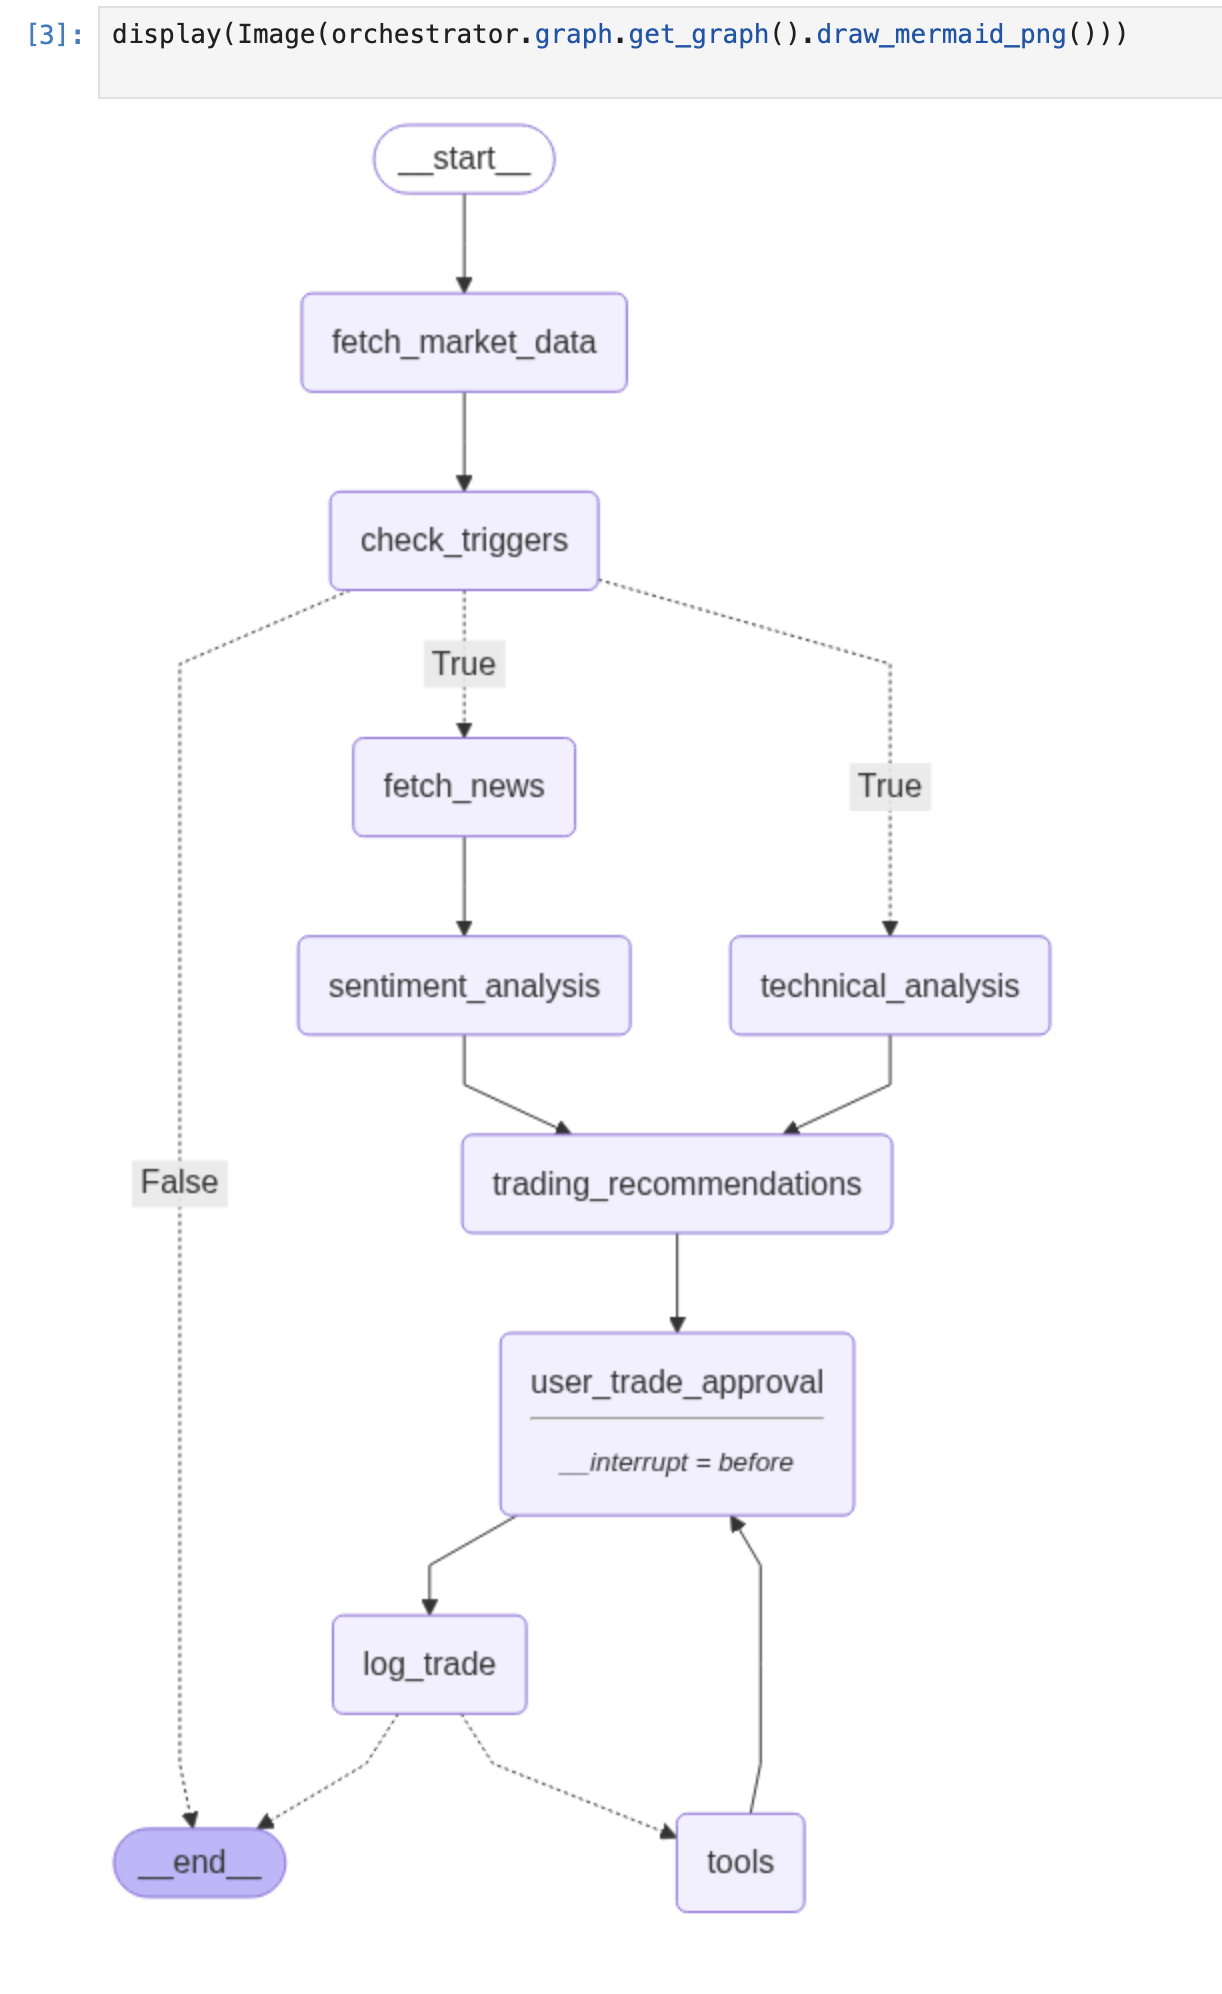
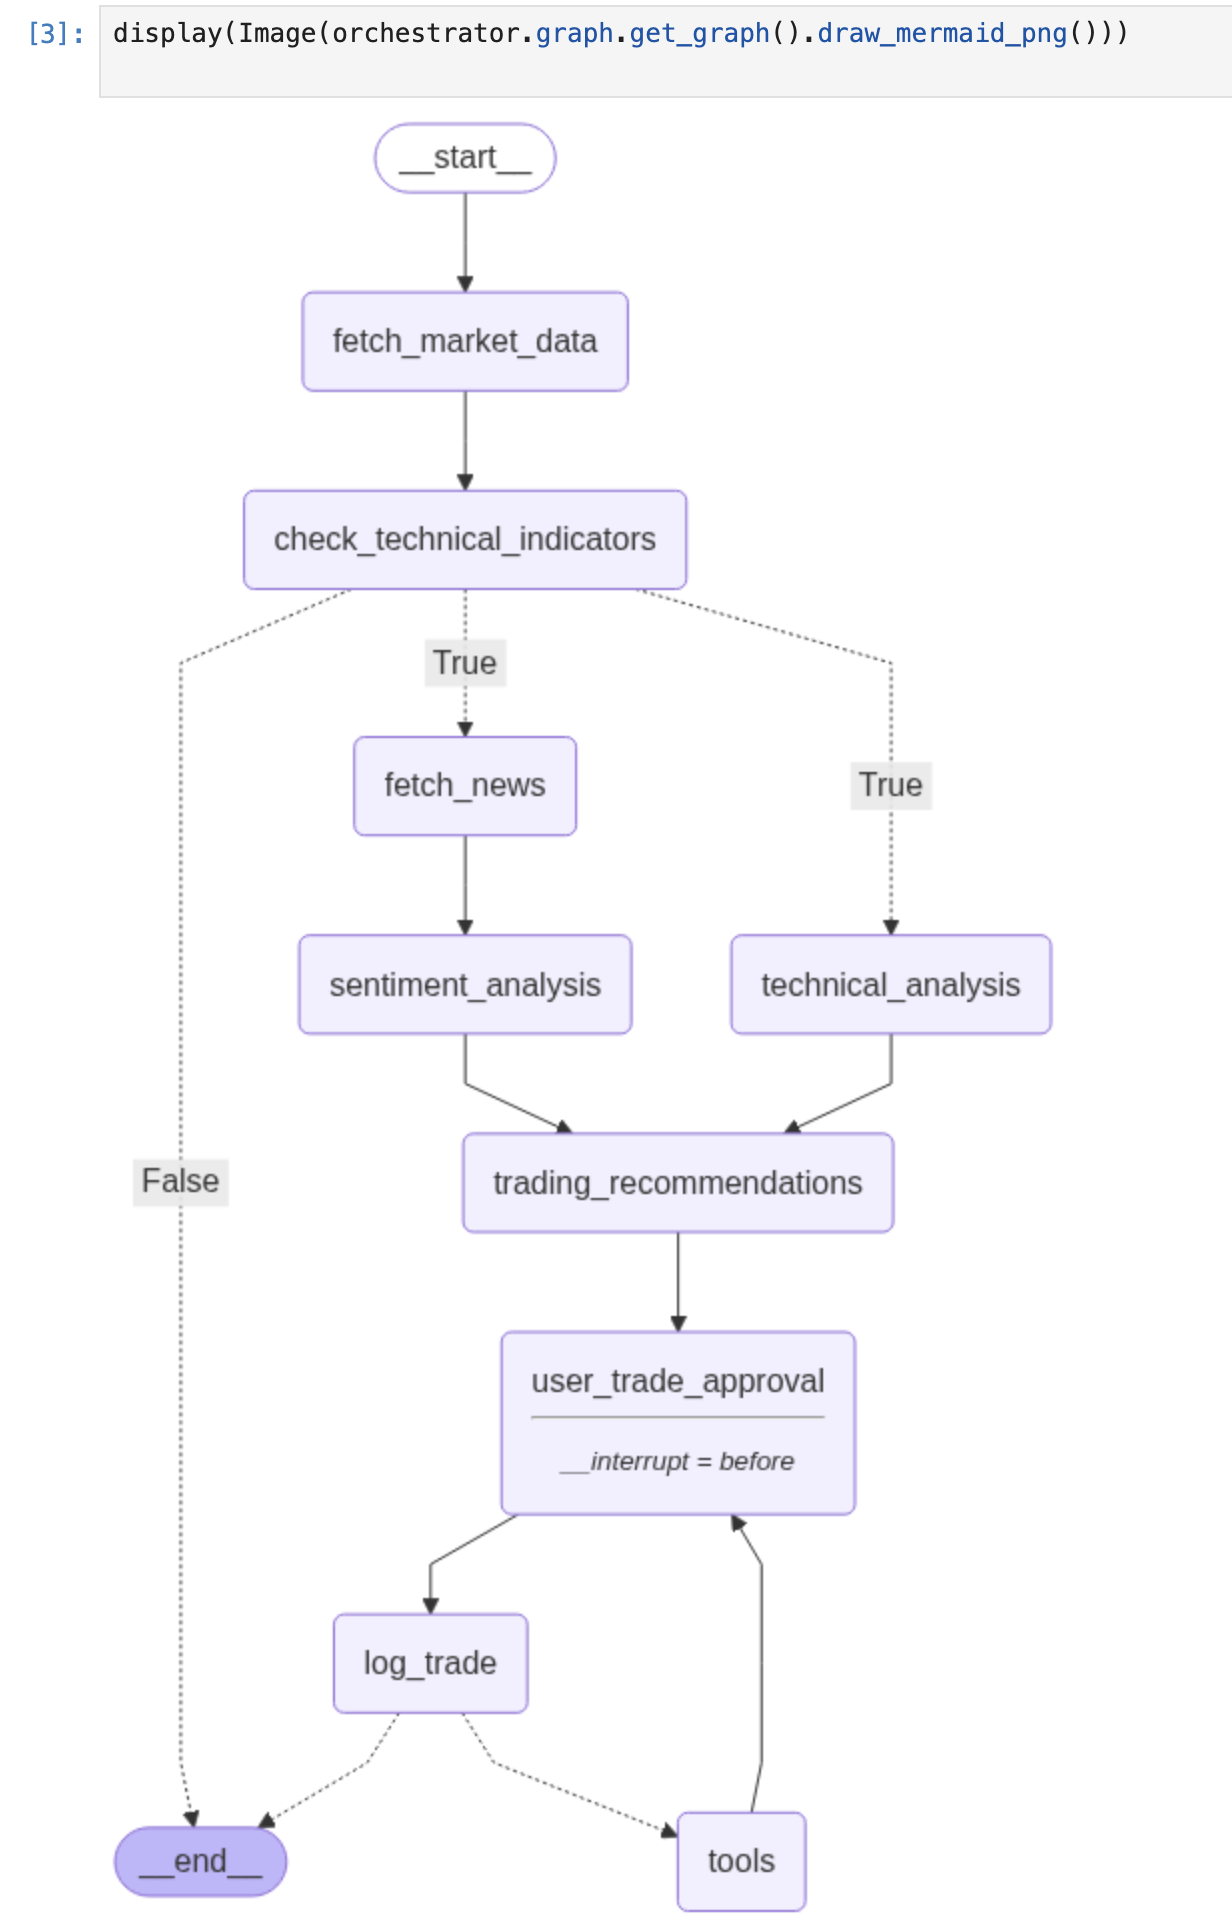
update demo screenshots

diff --git a/_posts/2025-07-14-Stock-Trading-AI-Agent.md b/_posts/2025-07-14-Stock-Trading-AI-Agent.md
@@ -35,11 +35,11 @@ Here is the responsible of each agents.
 * All actions and decisions are logged by the Logging Agent.
 
 The word “agent” here is a general term. It can be an LLM or an entity that completes specific tasks. For example:
-* The “Technical Analysis Agent” is an LLM. It computes the stock’s various technical indicators and uses reasoning to give the stock a technical overview.
+* The “Technical Analysis Agent” is an LLM. It calculates the stock’s various technical indicators and uses reasoning to provide the stock with a technical assessment.
 * On the other hand, the “Market Data Agent” fetches the stock data from the stock exchange.
 
 ### Technologies
-I use ChatGPT-4o as the LLM and LangGraph as the agent framework. The app is written in Python.
+I use ChatGPT-4 as the LLM and LangGraph as the agent framework. The app is written in Python.
 
 The app runs as a REST service with endpoints to support on-demand stock analysis requests. 
 
@@ -50,16 +50,15 @@ Here is the generated LangGraph representing the agent workflow where the task i
 
 <a href="/assets/ai_agent/agent_workflow_graph.png" target="_blank">
   <img src="/assets/ai_agent/agent_workflow_graph.png" width="500"/>
-</a>
 
-The graph defines nodes involved in Prompt chaining, where each agent node handles the output of the previous one. Here is the code of chaining the nodes. 
+The graph defines nodes involved in Prompt Chaining, where each agent node handles the output of the previous one. Here is the code of chaining the nodes. 
 ```
 def build_state_graph(self):
     workflow = StateGraph(State)
 
     # Add nodes
     workflow.add_node("fetch_market_data", self.fetch_market_data)
-    workflow.add_node("check_triggers", self.check_triggers)
+    workflow.add_node("check_technical_indicators", self.check_technical_indicators)
     workflow.add_node("technical_analysis", self.technical_analysis)
     ...
 
@@ -80,38 +79,55 @@ def build_state_graph(self):
 ### Demonstration
 #### NFLX
 On July 18, **Netflix** stock dropped 5% after a strong earnings report, and the large price swing triggered sentiment analysis of the stock. Here is the response from my Stock Trading Agent:
-```
-Sentiment for NFLX News: MIXED (Positive Bias)
 
-Key headlines:
-* Earnings beat but weak reaction: Strong Q2 results but “failed to impress” — short-term cautious tone.
-* Stock drop: Shares fell 5% despite the beat — short-term negative reaction.
-* Analyst action: Many major banks (Wells Fargo, UBS, JP Morgan, TD Cowen, Rosenblatt, Piper Sandler, Morgan Stanley) all maintain Buy/Overweight and raise price targets — strong medium-term positive signal.
-* Engagement mixed: “Anemic” engagement but “shockingly strong” retention — mixed narrative, mostly neutralized by higher subscriber stickiness.
-* Options activity: Covered call suggests cautious big money hedging.
-
-Implication:
-* Short-term sentiment is slightly negative due to the price drop and cautious reaction.
-* Medium-term sentiment is positive because multiple analysts raised price targets significantly, reinforcing fundamental confidence.
-* This offsets technical weakness (price stalling, slight profit-taking) but does not fully reverse it yet.
-
-Sentiment: MIXED leaning POSITIVE — News flow moderately strengthens the medium-term technical signal but near-term profit-taking risk remains.
-```
+> **Sentiment for NFLX News: MIXED (Positive Bias)**
+>
+> **Key headlines:**
+> - Earnings beat but weak reaction: Strong Q2 results but “failed to impress” — short-term cautious tone.
+> - Stock drop: Shares fell 5% despite the beat — short-term negative reaction.
+> - Analyst action: Many major banks (Wells Fargo, UBS, JP Morgan, TD Cowen, Rosenblatt, Piper Sandler, Morgan Stanley) all maintain Buy/Overweight and raise price targets — strong medium-term positive signal.
+> - Engagement mixed: “Anemic” engagement but “shockingly strong” retention — mixed narrative, mostly neutralized by higher subscriber stickiness.
+> - Options activity: Covered call suggests cautious big money hedging.
+>
+> **Implication:**
+> - Short-term sentiment is slightly negative due to the price drop and cautious reaction.
+> - Medium-term sentiment is positive because multiple analysts raised price targets significantly, reinforcing fundamental confidence.
+> - This offsets technical weakness (price stalling, slight profit-taking) but does not fully reverse it yet.
+>
+> **Sentiment**: **MIXED leaning POSITIVE** — News flow moderately strengthens the medium-term technical signal but near-term profit-taking risk remains.
 
 #### AVGO
 
 The Stock Trading Agent's technical analysis of **Broadcom** stock on July 18:
 
-```
-Analysis for AVGO:
-* Trend: Strong upward trend — current price (283.27) is well above all key SMAs (20, 50, 150) and EMA 20, showing clear bullish momentum.
-* RSI: Elevated at 66.98 — nearing overbought but not extreme yet; mild caution warranted.
-* MACD: Positive but slightly below signal line (9.61 vs. 9.77) — suggests momentum is flattening near-term.
-* Support/Resistance: Price is just below resistance (288.28) and close to the upper Bollinger Band (290.22) — possible short-term hesitation if volume stays low.
-* Bollinger Bands: Wide — signals volatility expansion consistent with the strong uptrend.
-* Volume: Recent 3-day average is about 52% of the longer-term average — light volume may limit a strong breakout for now.
+>**AVGO Technical Analysis and Recommendation**
+>
+>**Trend:**  
+>AVGO is in a clear uptrend. The current price ($283.27) is above the 20/50/150 SMAs and the 20-EMA, all of which are rising.
+>
+>**RSI (14):**  
+>At 66.98, RSI is approaching the overbought zone (70+), but not excessively so. This signals strength but also potential for short-term consolidation or pullback.
+>
+>**MACD:**  
+>MACD (9.61) is slightly below the signal line (9.77), which is a mild bearish crossover; however, the values are close, indicating momentum is slowing but not reversing.
+>
+>**Support/Resistance:**  
+>Price is near the resistance at $288.28. If it breaks above, more upside is likely. Support sits well below at $244.17, protecting against a deep sell-off.
+>
+>**Bollinger Bands:**  
+Bands are moderately wide ($290.22 upper, $253.58 lower), showing some volatility but not an extreme expansion or contraction.
+>
+>**Volume:**  
+>Recent volume is significantly below average (ratio ~0.52), which may indicate either a pause before the next move or waning short-term momentum.
+>
+---
+>
+> **Recommendation: _Hold_**  
+>The uptrend remains intact, but the proximity to resistance ($288.28), slightly overstretched RSI, slowing momentum (MACD), and lower volumes suggest a short-term pause or consolidation is likely. Wait for a clear breakout above resistance with volume for a fresh **buy** signal, or confirmation of reversal for a **sell**. For now, **hold**.
 
-Recommendation: HOLD / BUY ON DIP — Strong trend is intact but momentum is flattening and volume is soft near resistance. Hold if in, wait for a pullback toward 270–275 to add. Buy only if it breaks 288.28 with clear volume surge.
-```
+<!-- ![alt text](/assets/ai_agent/get_tech_analysis_screen.png "Title") -->
+
+<a href="/assets/ai_agent/get_tech_analysis_screen.png" target="_blank">
+  <img src="/assets/ai_agent/get_tech_analysis_screen.png" />
 
 Cheers!
